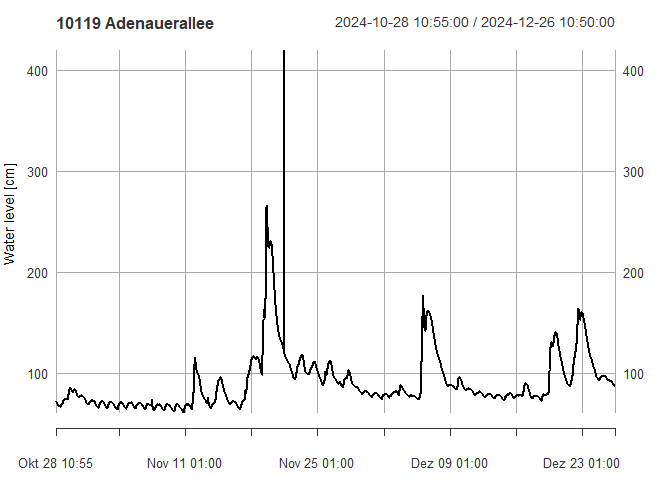
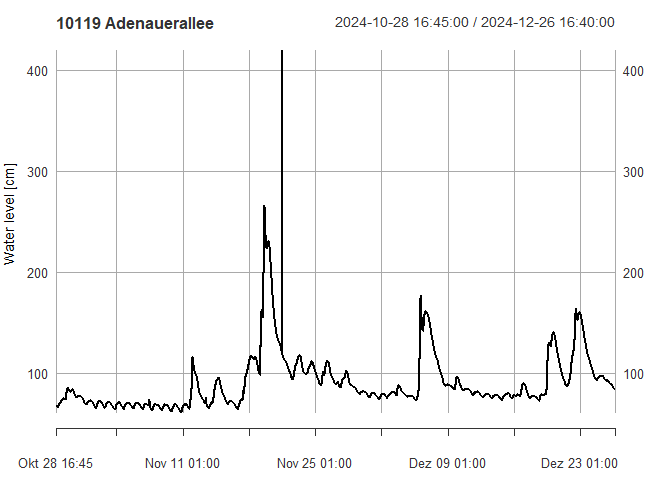
test(get_gauges): rm gauges_ref.rds
fixes #14

diff --git a/README.md b/README.md
@@ -27,7 +27,7 @@ Just a few quick insights on the use of this package:
 
 ``` r
 library(EGLVgauges)
-#> 0.2.2
+#> 0.2.3
 
 # fetch all available gauges
 gauges <- get_gauges()
@@ -94,27 +94,27 @@ meas
 #>   NOTE: set 'options(xts_check_TZ = FALSE)' to disable this warning
 #>     This note is displayed once per session
 #>                     Wasserstand
-#> 2024-10-28 10:55:00          73
-#> 2024-10-28 11:00:00          73
-#> 2024-10-28 11:05:00          72
-#> 2024-10-28 11:10:00          72
-#> 2024-10-28 11:15:00          72
-#> 2024-10-28 11:20:00          72
-#> 2024-10-28 11:25:00          72
-#> 2024-10-28 11:30:00          72
-#> 2024-10-28 11:35:00          72
-#> 2024-10-28 11:40:00          72
+#> 2024-10-28 16:45:00          68
+#> 2024-10-28 16:50:00          68
+#> 2024-10-28 16:55:00          68
+#> 2024-10-28 17:00:00          68
+#> 2024-10-28 17:05:00          68
+#> 2024-10-28 17:10:00          68
+#> 2024-10-28 17:15:00          68
+#> 2024-10-28 17:20:00          68
+#> 2024-10-28 17:25:00          68
+#> 2024-10-28 17:30:00          68
 #>                 ...            
-#> 2024-12-26 10:05:00          89
-#> 2024-12-26 10:10:00          89
-#> 2024-12-26 10:15:00          89
-#> 2024-12-26 10:20:00          89
-#> 2024-12-26 10:25:00          89
-#> 2024-12-26 10:30:00          88
-#> 2024-12-26 10:35:00          88
-#> 2024-12-26 10:40:00          88
-#> 2024-12-26 10:45:00          88
-#> 2024-12-26 10:50:00          88
+#> 2024-12-26 15:55:00          85
+#> 2024-12-26 16:00:00          85
+#> 2024-12-26 16:05:00          85
+#> 2024-12-26 16:10:00          85
+#> 2024-12-26 16:15:00          85
+#> 2024-12-26 16:20:00          85
+#> 2024-12-26 16:25:00          85
+#> 2024-12-26 16:30:00          85
+#> 2024-12-26 16:35:00          85
+#> 2024-12-26 16:40:00          85
 
 class(meas)
 #> [1] "xts" "zoo"
